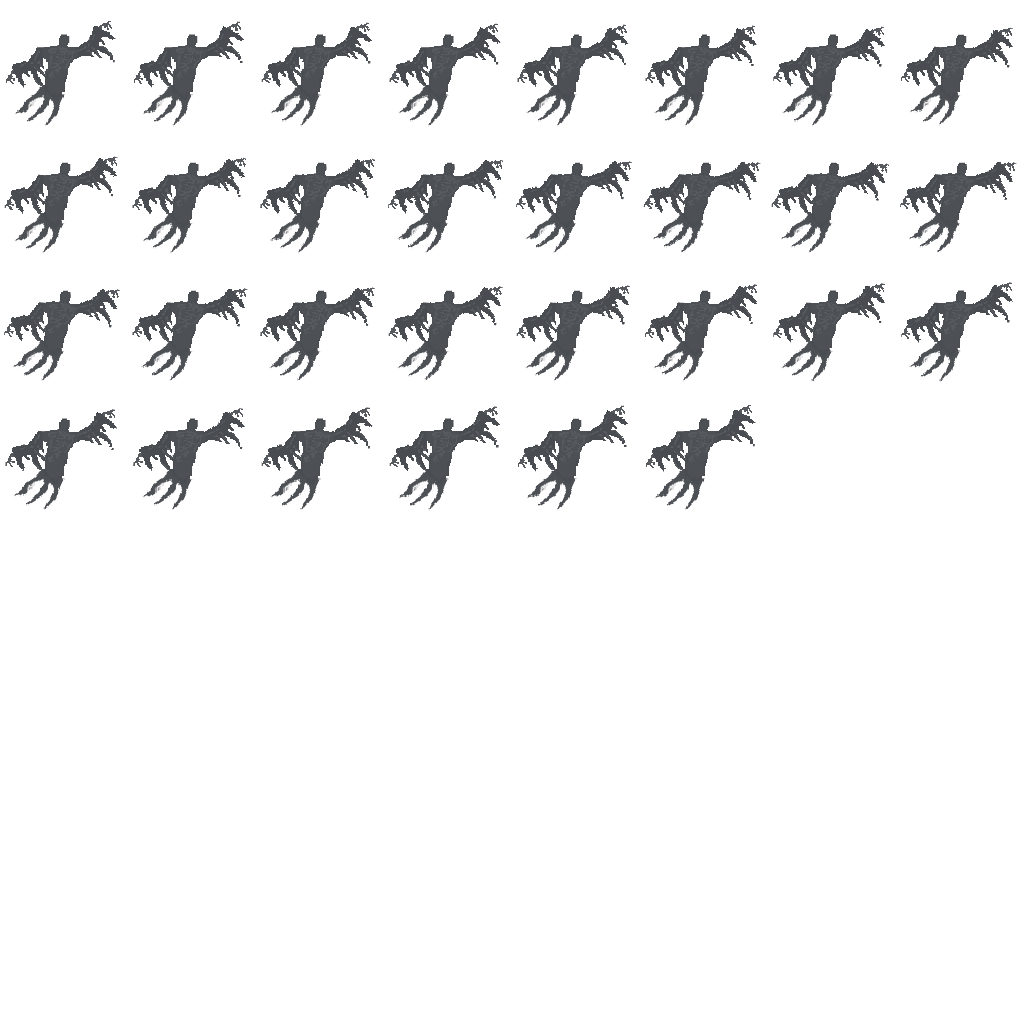
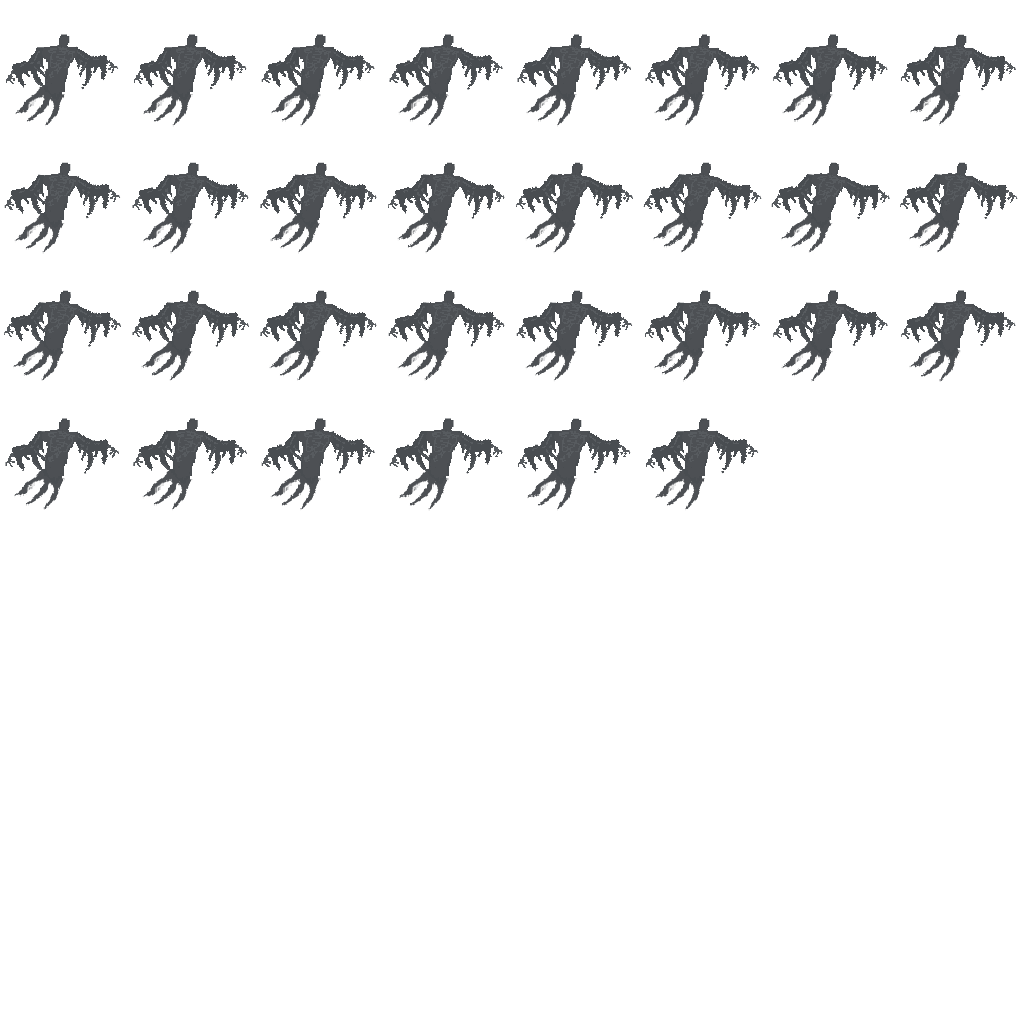
Attack animation done, and bat animation debugged

diff --git a/Vampire.cpp b/Vampire.cpp
@@ -2,8 +2,11 @@
 #include <cassert>
 #include "Vampire.h"
 #include "util.h"
+#include "Debug.h"
 
 namespace Game {
+
+    extern Debug debug;
 
     const double Vampire::SPEED = 3;
 
@@ -15,11 +18,17 @@ namespace Game {
     const Surface *Vampire::movingF = 0;
     const Surface *Vampire::movingG = 0;
     const Surface *Vampire::movingH = 0;
+    const Surface *Vampire::attackingE = 0;
+    const Surface *Vampire::attackingF = 0;
+    const Surface *Vampire::attackingG = 0;
+    const Surface *Vampire::attackingH = 0;
 
     const size_t Vampire::idleColumns = 16;
     const size_t Vampire::idleFrames = 65;
     const size_t Vampire::movingColumns = 8;
     const size_t Vampire::movingFrames = 30;
+    const size_t Vampire::attackingColumns = 4;
+    const size_t Vampire::attackingFrames = 15;
 
     Vampire::Vampire(const Location &loc) :
     dir(DIR_F),
@@ -53,32 +62,63 @@ namespace Game {
 
 		// Vampire sprite
         const Surface *image = 0;
-        if (state == IDLE || state == MOVING){
-            bool moving = (state == MOVING);
-            switch (dir){
-            case DIR_E:
-                image = moving ? movingE : idleE;
-                break;
-            case DIR_F:
-                image = moving ? movingF : idleF;
-                break;
-            case DIR_G:
-                image = moving ? movingG : idleG;
-                break;
-            case DIR_H:
-                image = moving ? movingH : idleH;
-                break;
+        switch (dir){
+        case DIR_E:
+            switch (state){
+            case IDLE:
+                image = idleE; break;
+            case MOVING:
+                image = movingE; break;
+            case ATTACKING:
+                image = attackingE; break;
             }
+            break;
+        case DIR_F:
+            switch (state){
+            case IDLE:
+                image = idleF; break;
+            case MOVING:
+                image = movingF; break;
+            case ATTACKING:
+                image = attackingF; break;
+            }
+            break;
+        case DIR_G:
+            switch (state){
+            case IDLE:
+                image = idleG; break;
+            case MOVING:
+                image = movingG; break;
+            case ATTACKING:
+                image = attackingG; break;
+            }
+            break;
+        case DIR_H:
+            switch (state){
+            case IDLE:
+                image = idleH; break;
+            case MOVING:
+                image = movingH; break;
+            case ATTACKING:
+                image = attackingH; break;
+            }
+            break;
         }
 
 		assert(image);
         size_t col = 0, row = 0;
-        if (state == IDLE){
+        switch (state){
+        case IDLE:
             row = frame / idleColumns;
             col = frame % idleColumns;
-        }else if (state == MOVING){
+            break;
+        case MOVING:
             row = frame / movingColumns;
             col = frame % movingColumns;
+            break;
+        case ATTACKING:
+            row = frame / attackingColumns;
+            col = frame % attackingColumns;
         }
         SDL_Rect srcRect;
         srcRect.w = srcRect.h = 128;
@@ -123,7 +163,8 @@ namespace Game {
         }
 
         VampireState oldState = state;
-        state = MOVING;
+        if (state != ATTACKING)
+            state = MOVING;
         if (up && right)
             updateDirection(DIR_E);
         else if (down && right)
@@ -141,7 +182,8 @@ namespace Game {
         else if (right)
             updateDirection(DIR_R);
         else
-            state = IDLE;
+            if (state != ATTACKING)
+                state = IDLE;
 
         if (state != oldState){
             if (state == IDLE)
@@ -160,8 +202,13 @@ namespace Game {
             frameTime = 42 - (timeElapsed - frameTime);
             ++frame;
             if (state == IDLE && frame >= idleFrames ||
-                state == MOVING && frame >= movingFrames)
+                state == MOVING && frame >= movingFrames ||
+                state == ATTACKING && frame >= attackingFrames){
                 frame = 0;
+                if (state == ATTACKING)
+                    state = MOVING;
+            }
+                
         }else
             frameTime -= timeElapsed;
     }
@@ -196,7 +243,15 @@ namespace Game {
 	void Vampire::updateAttack(AOEAttack& attack, double delta) {
 		attack.update(delta);
 		if (isKeyPressed(attack.getKey())) {
-			attack.activate(loc_);
+            if (!attack.active_){
+			    attack.activate(loc_);
+                if (!attack.isBatAttack() && state != ATTACKING){
+                    debug("resetting combat animation");
+                    frame = 0;
+                    state = ATTACKING;
+                    frameTime = 42;
+                }
+            }
 		}
 		else {
 			attack.deactivate();
@@ -212,24 +267,30 @@ namespace Game {
                                 const Surface *f,
                                 const Surface *g,
                                 const Surface *h){
-        {
-            idleE = e;
-            idleF = f;
-            idleG = g;
-            idleH = h;
-        };
+        idleE = e;
+        idleF = f;
+        idleG = g;
+        idleH = h;
     }
 
     void Vampire::setMovingImages(const Surface *e,
                                   const Surface *f,
                                   const Surface *g,
                                   const Surface *h){
-        {
-            movingE = e;
-            movingF = f;
-            movingG = g;
-            movingH = h;
-        };
+        movingE = e;
+        movingF = f;
+        movingG = g;
+        movingH = h;
+    }
+
+    void Vampire::setAttackingImages(const Surface *e,
+                                     const Surface *f,
+                                     const Surface *g,
+                                     const Surface *h){
+        attackingE = e;
+        attackingF = f;
+        attackingG = g;
+        attackingH = h;
     }
 
     SDL_Rect Vampire::getDrawRect(Point offset) const{

diff --git a/Vampire.h b/Vampire.h
@@ -27,6 +27,7 @@ namespace Game {
         enum VampireState{
             IDLE,
             MOVING,
+            ATTACKING
         };
 
         virtual SDL_Rect drawRect() const;
@@ -45,13 +46,19 @@ namespace Game {
             *movingE,
             *movingF,
             *movingG,
-            *movingH;
+            *movingH,
+            *attackingE,
+            *attackingF,
+            *attackingG,
+            *attackingH;
 
         const static size_t
             idleColumns,
             idleFrames,
             movingColumns,
-            movingFrames;
+            movingFrames,
+            attackingColumns,
+            attackingFrames;
 
         timer_t frameTime; //time until next frame.  Resets at 42ms (~24f/s)
         size_t frame; //current frame
@@ -78,6 +85,11 @@ namespace Game {
                                     const Surface *f,
                                     const Surface *g,
                                     const Surface *h);
+
+        static void setAttackingImages(const Surface *e,
+                                       const Surface *f,
+                                       const Surface *g,
+                                       const Surface *h);
 
         virtual void draw(Point offset = Point(), Surface &surface = screenBuf) const;
 

diff --git a/BatAttack.cpp b/BatAttack.cpp
@@ -2,8 +2,12 @@
 
 #include "BatAttack.h"
 #include "Point.h"
+#include "Debug.h"
+#include "util.h"
 
 namespace Game {
+
+extern Debug debug;
 
     const size_t BatAttack::FRAMES = 20;
 
@@ -48,7 +52,7 @@ namespace Game {
         srcRect.y = row * DIM.y;
         srcRect.w = DIM.x;
         srcRect.h = DIM.y;
-        
+
         image.draw(screenBuf, &drawRect, &srcRect);
     }
 
@@ -58,15 +62,19 @@ namespace Game {
         if (attacking_){
             //update frame
             timer_t timeElapsed = delta * DELTA_MODIFIER;
-
+debug(frameTime);
             if (timeElapsed > frameTime){
                 ++frame;
                 if (frame >= FRAMES)
                     frame = 0;
-                frameTime = 42 - (timeElapsed - frameTime);
+                frameTime = max<int>(42 - (timeElapsed - frameTime), 0);
             }else
                 frameTime -= timeElapsed;
         }
+    }
+
+    bool BatAttack::isBatAttack(){
+       return true;
     }
 
 } //namespace Game

diff --git a/GameState.cpp b/GameState.cpp
@@ -75,6 +75,11 @@ scream(SOUND_PATH + "death1.wav") {
     movingG = Surface(VAMPIRE_PATH + "movingG.png", true);
     movingH = Surface(VAMPIRE_PATH + "movingH.png", true);
     Vampire::setMovingImages(&movingE, &movingF, &movingG, &movingH);
+    attackingE = Surface(VAMPIRE_PATH + "attackingE.png", true);
+    attackingF = Surface(VAMPIRE_PATH + "attackingF.png", true);
+    attackingG = Surface(VAMPIRE_PATH + "attackingG.png", true);
+    attackingH = Surface(VAMPIRE_PATH + "attackingH.png", true);
+    Vampire::setAttackingImages(&attackingE, &attackingF, &attackingG, &attackingH);
 
 }
 

diff --git a/AOEAttack.h b/AOEAttack.h
@@ -18,9 +18,6 @@ namespace Game {
 
         virtual Surface *image() const;
 
-		// Player wants to activate attack
-		bool active_;
-
 		// Time for the attack to run
 		timer_t attackingTimer_;
 
@@ -36,6 +33,11 @@ namespace Game {
 
     public:
 		AOEAttack();
+
+        virtual bool isBatAttack();
+
+		// Player wants to activate attack
+		bool active_;
 
 		virtual void update(double delta);
         virtual void draw(Point offset = Point(), Surface &surface = screenBuf) const;

diff --git a/BatAttack.h b/BatAttack.h
@@ -9,9 +9,9 @@ namespace Game {
 
 	class BatAttack : public AOEAttack{
 
-        timer_t frameTime;
+        int frameTime;
 
-        Surface image;
+        mutable Surface image;
 
 	public:
 		virtual SDLKey getKey() const;
@@ -27,6 +27,8 @@ namespace Game {
         static const Point DIM;
 
         BatAttack();
+
+        virtual bool isBatAttack();
 
 	protected:
 		virtual timer_t getAttackingTime() const;

diff --git a/AOEAttackVariety.h b/AOEAttackVariety.h
@@ -15,7 +15,7 @@ namespace Game {
 		virtual SDLKey getKey() const;
 		//virtual Sound& getSound() const;
 
-        //virtual void draw(Point offset = Point(), Surface &surface = screenBuf) const;
+        virtual void draw(Point offset = Point(), Surface &surface = screenBuf) const;
 
 	protected:
 		virtual timer_t getAttackingTime() const;

diff --git a/AOEAttack.cpp b/AOEAttack.cpp
@@ -121,10 +121,16 @@ namespace Game {
 		cooldownTimer_ = getCooldownTime();
 		sound_.play(-1, 0);
 		debug("die!");
+
+
 	}
 
 	void AOEAttack::deactivate() {
 		active_ = false;
 	}
+
+    bool AOEAttack::isBatAttack(){
+        return false;
+    }
 
 } //namespace Game

diff --git a/AOEAttackVariety.cpp b/AOEAttackVariety.cpp
@@ -28,9 +28,9 @@ namespace Game {
 		return SDLK_z;
 	}
 
-    //void SmallAOEAttack::draw(Point offset, Surface &surface) const{
-    //    
-    //}
+    void SmallAOEAttack::draw(Point offset, Surface &surface) const{
+        
+    }
 
 
 } //namespace Game

diff --git a/GameState.h b/GameState.h
@@ -58,7 +58,11 @@ private:
        movingE,
        movingF,
        movingG,
-       movingH;
+       movingH,
+       attackingE,
+       attackingF,
+       attackingG,
+       attackingH;
 };
 
 } // namespace Game
